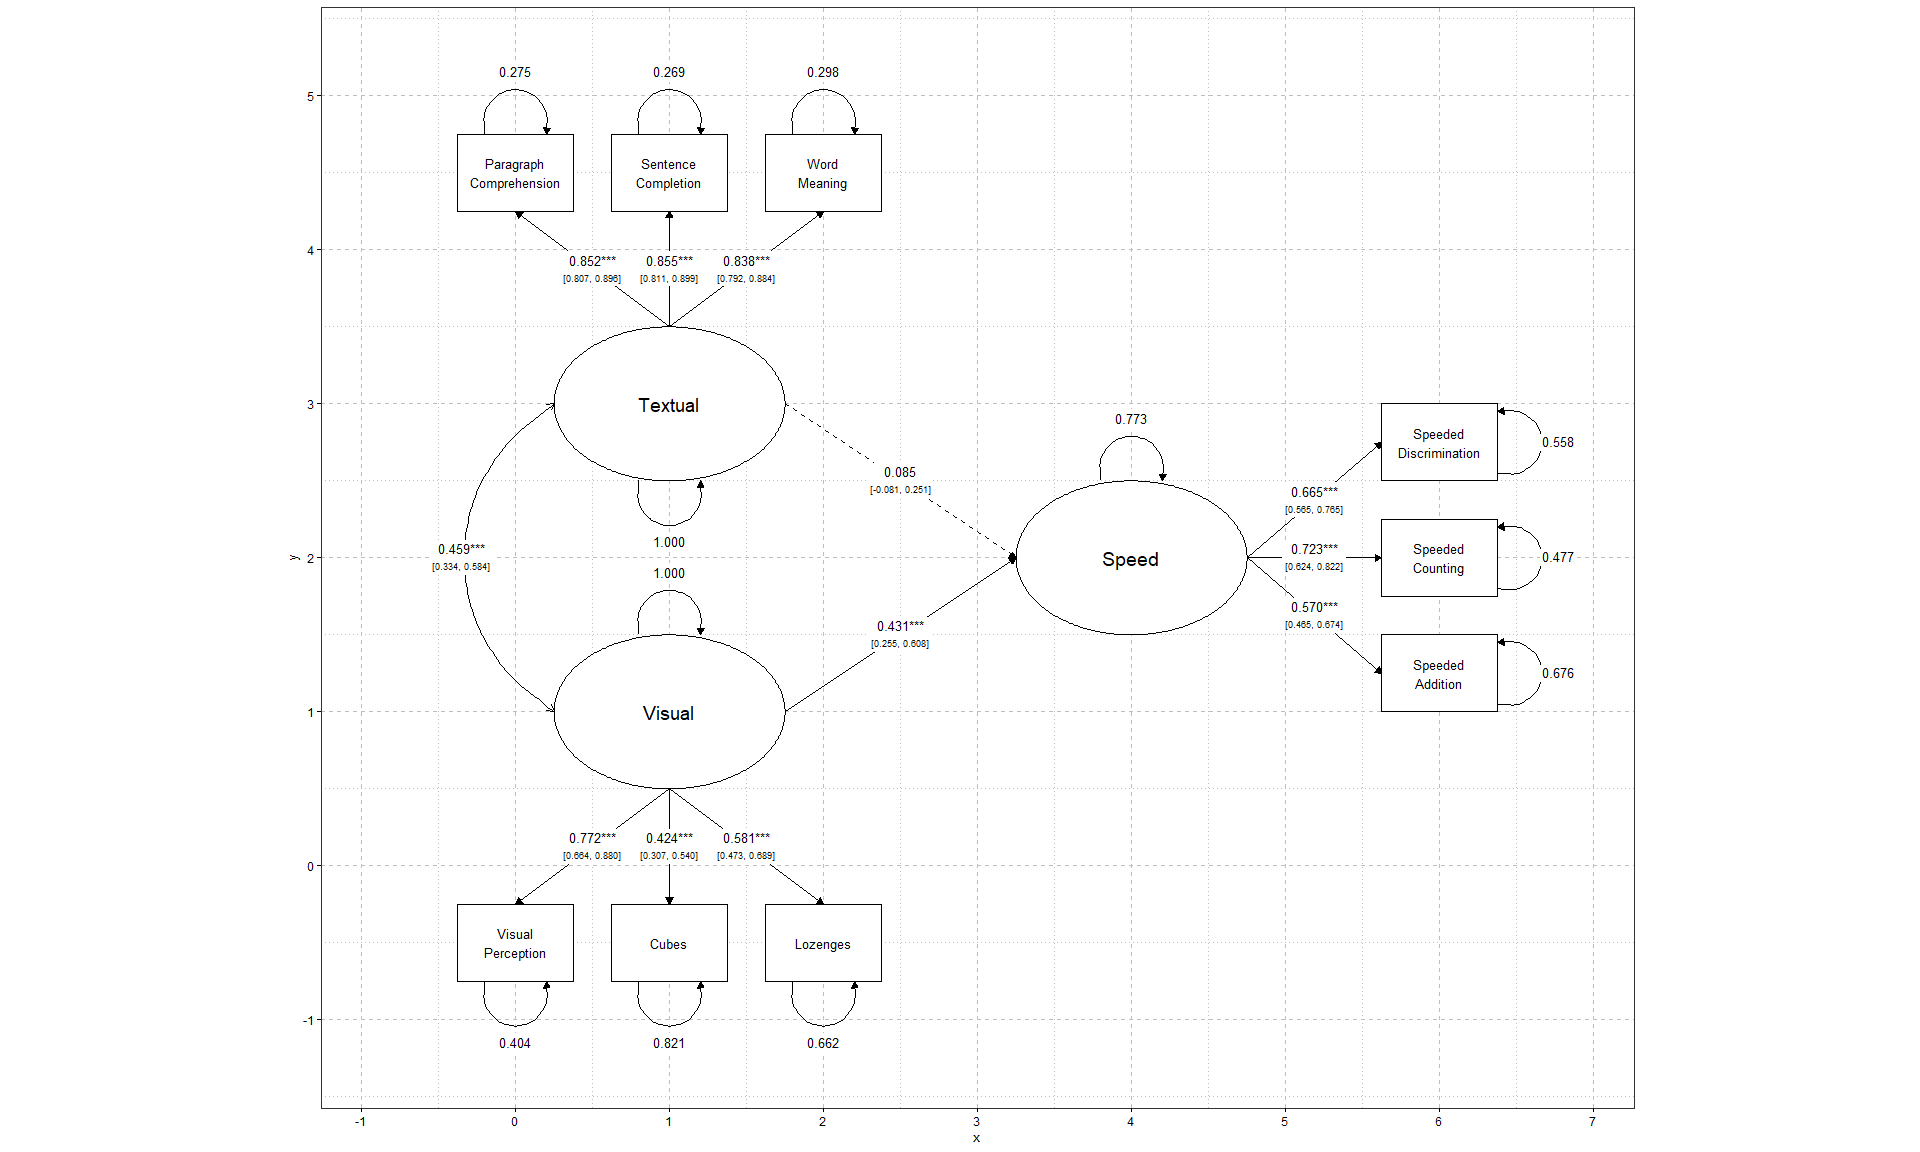
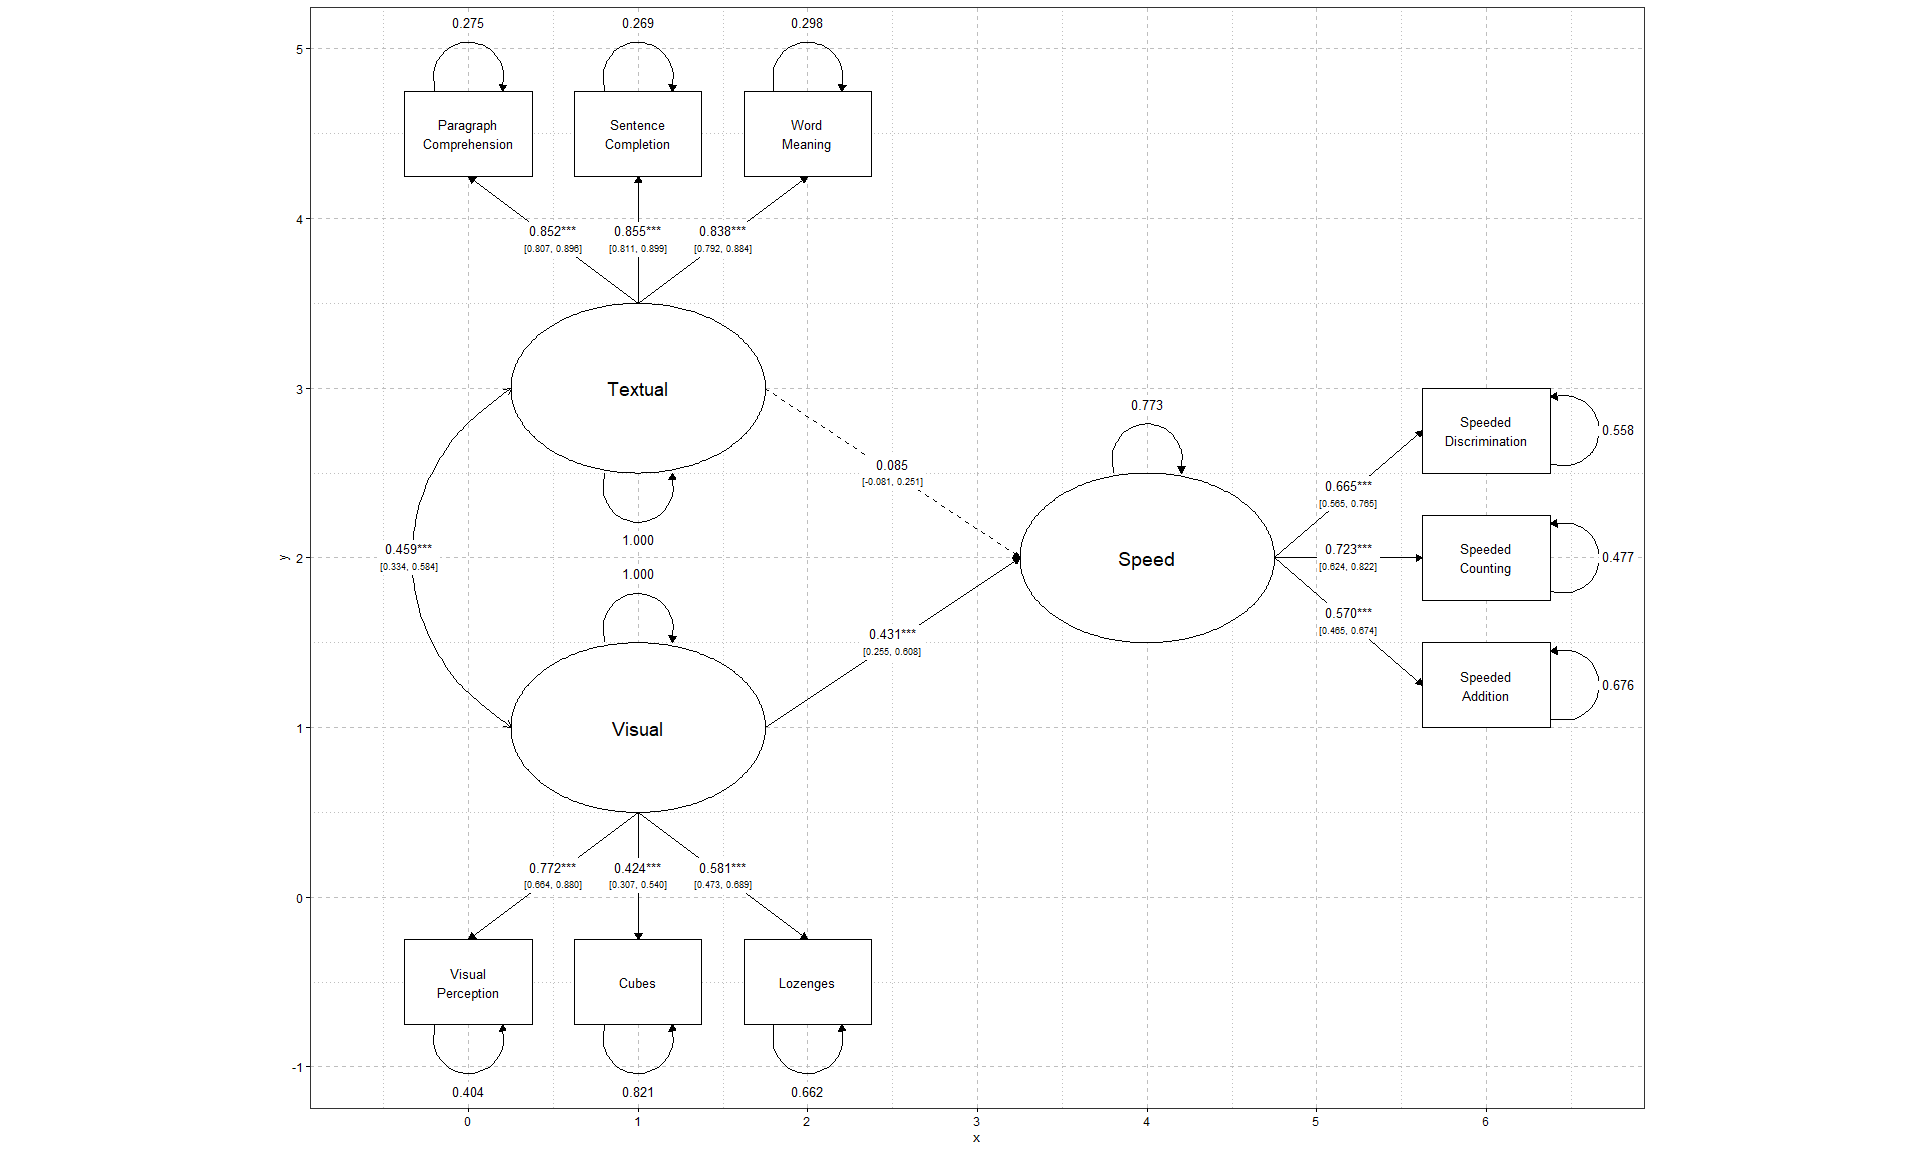
again plot

diff --git a/README.md b/README.md
@@ -37,6 +37,7 @@ vignette.
 
 ``` r
 
+
 # full SEM example, this model may not make theoretical sense.
 library(diy.sem.plot)
 library(lavaan)
@@ -109,7 +110,7 @@ path_list <- list(
    path(from = "speed",   to = "x8", side_from = "right", side_to = "left"),
    path(from = "speed",   to = "x9", side_from = "right", side_to = "left"),
    
-  #latent variance/residualal
+  #latent variance/residual
    path(from = "textual", to = "textual", variance_position = "bottom"),
    path(from = "visual", to = "visual", variance_position = "top"),
    path(from = "speed", to = "speed", variance_position = "top"),
@@ -143,7 +144,9 @@ p <- diyPaths(
    est_ci = TRUE,
    show_variances = TRUE,
    show_grid = TRUE,
-   look_up_table = TRUE
+   look_up_table = TRUE,
+   margin_x = 0.2,
+   margin_y = 0.2
 )
 
 print(p)
